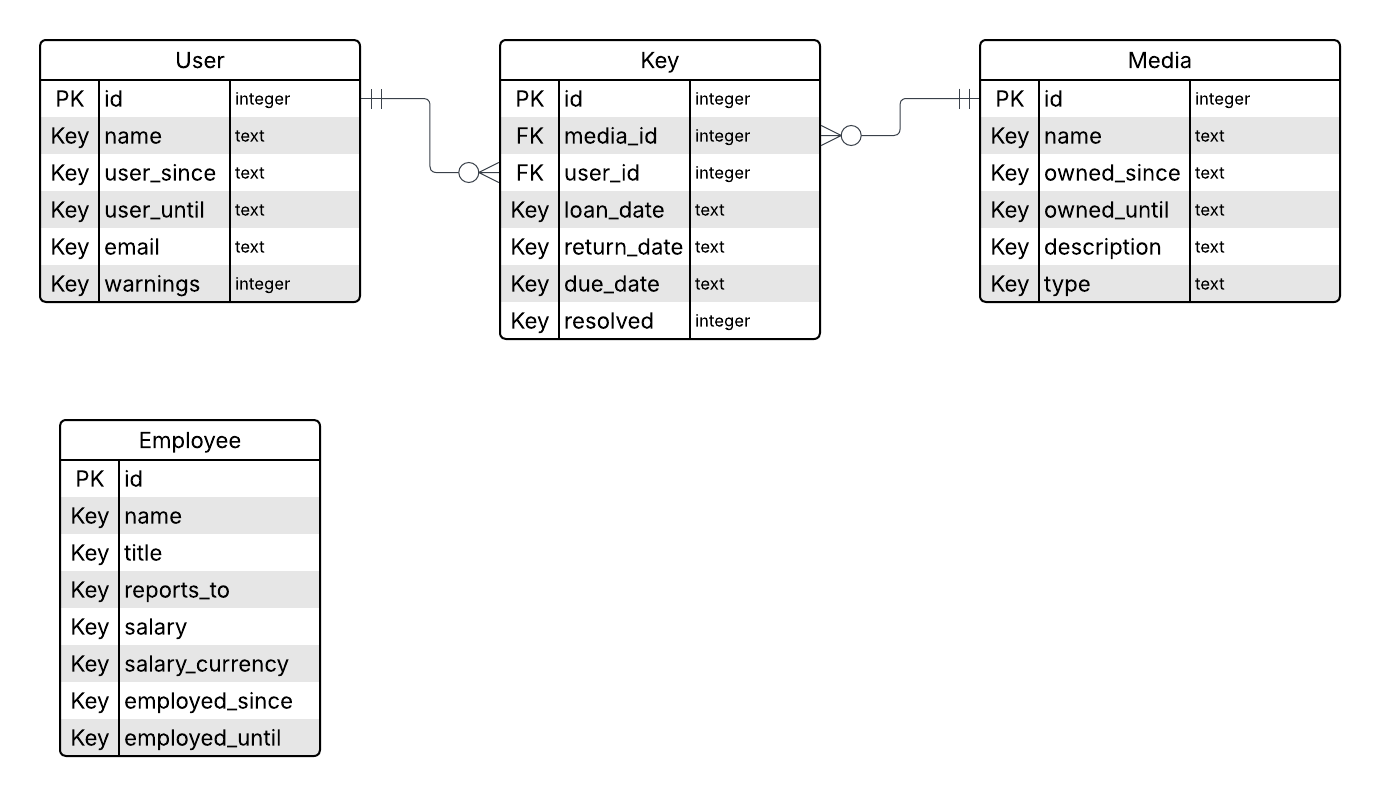
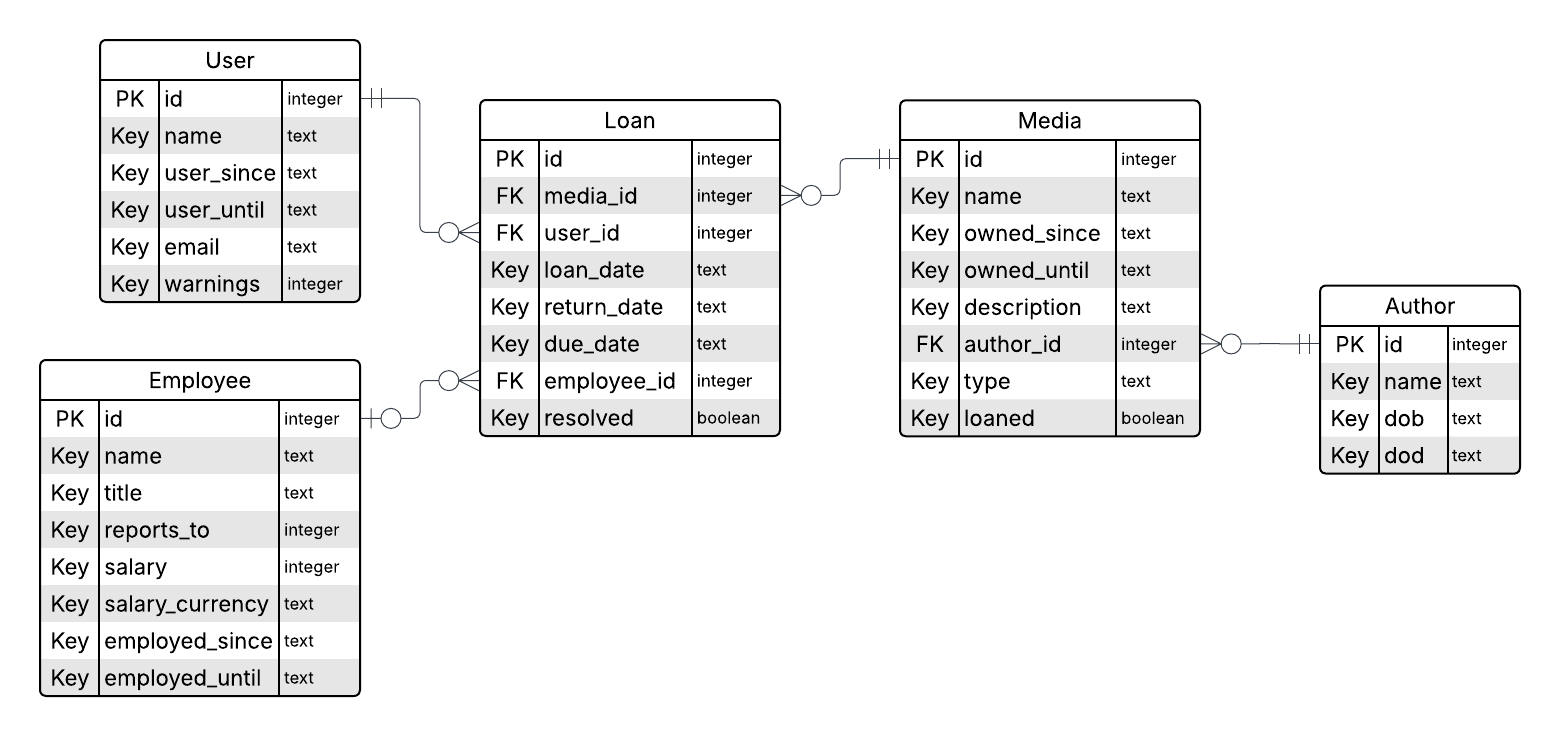
Updated database design descriptions

Changed region(s): [[0.0312, 0.0312, 0.9971, 0.6562], [0.0, 0.4688, 0.2493, 0.9688], [0.3739, 0.0312, 0.592, 0.0938]]

diff --git a/db_design/structure.md b/db_design/structure.md
@@ -11,6 +11,7 @@ The media table lists various forms of media, such as books, films, etc. It cons
 * **owned_since**: The date when the media was obtained by the library, in a text string, format "YYYY-MM-DD".
 * **owned_until**: The date when the library was considered no longer in posession of the media, for example if sold to another library, or lost by a user.
 * **description**: A short textual description of the media.
+* **author_id**: The authors id.
 * **type**: The media type as a string, one of "book", "film", "cd".
 * **loaned**: Boolean indicating whether the media is currently loaned by a user.
 
@@ -65,6 +66,7 @@ CREATE TABLE `media` (
   `owned_since` text DEFAULT 'null',
   `owned_until` text DEFAULT 'null',
   `description` text DEFAULT 'null',
+  `author_id` integer DEFAULT 'null',
   `type` text DEFAULT 'null',
   `loaned` boolean DEFAULT 'FALSE'
 );
@@ -103,6 +105,7 @@ CREATE TABLE `loans` (
   `loan_date` text DEFAULT 'null',
   `return_date` text DEFAULT 'null',
   `due_date` text DEFAULT 'null',
+  `employee_id` integer DEFAULT 'null',
   `resolved` boolean DEFAULT 'FALSE'
 );
 ```

diff --git a/readme.md b/readme.md
@@ -18,3 +18,7 @@ In order to facilitate development, the following project requirements were form
 The database currently satisfies most of the features to some extent. Below is an Entity Relationship (ER) diagram that represents the database entities and their relationships.
 
 ![alt text](db_design\ER_diagram.png)
+
+## Upcoming features
+
+* A table for location, so that one full library organization may be spread across multiple locations, but with a joint collection of media.
